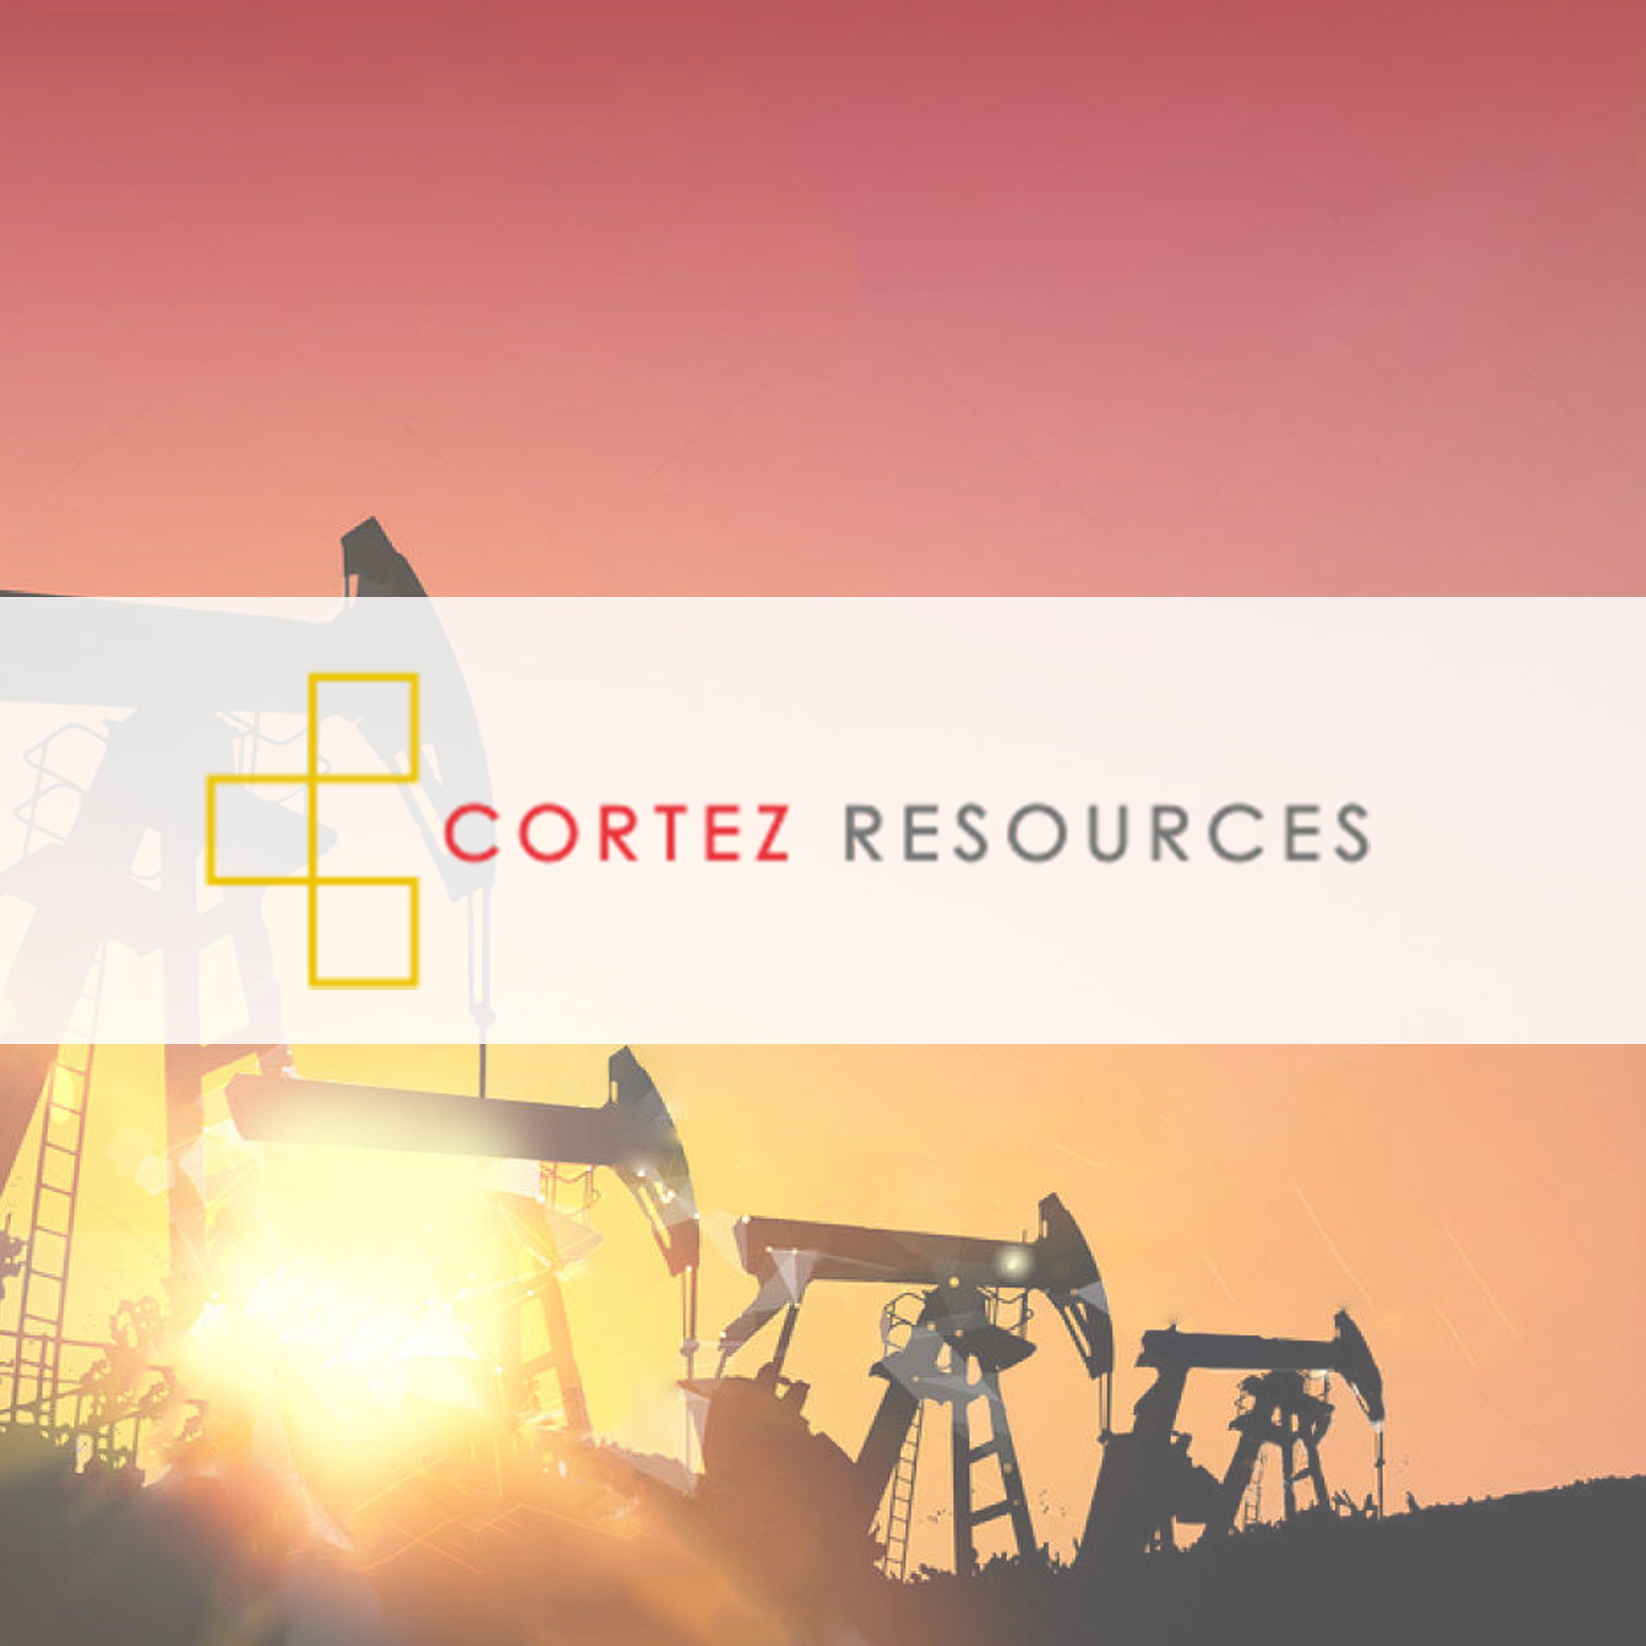
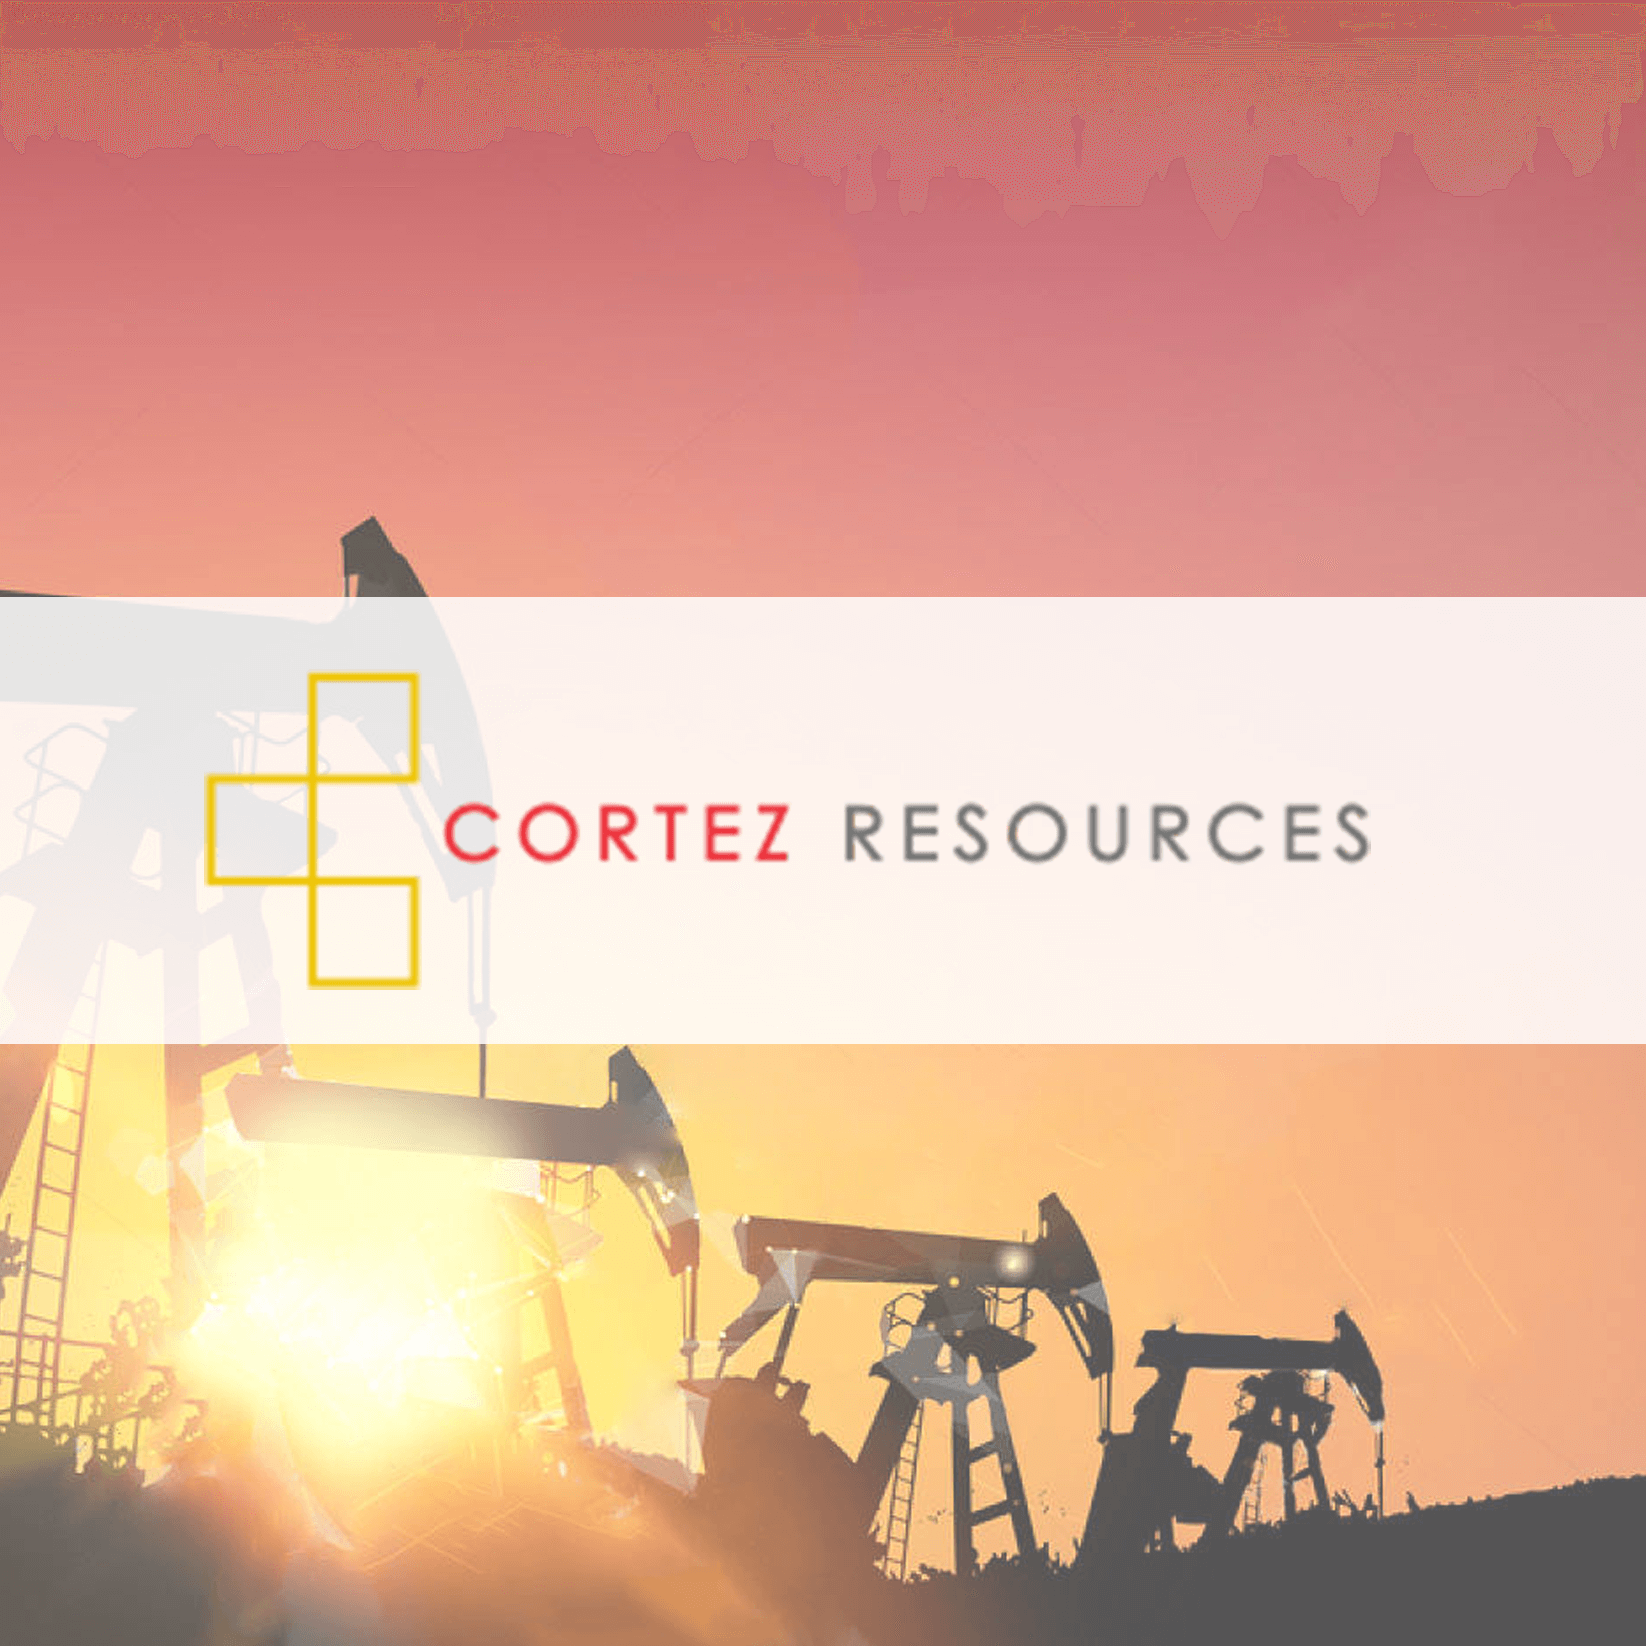
Image Compression

Changed region(s): [[0.0, 0.0, 1.0, 0.1239]]

diff --git a/cortez-resources.html b/cortez-resources.html
@@ -188,19 +188,19 @@
                         <div class="owl-carousel slider-images" style="text-align:center" ;>
 
                             <div class="item">
-                                <img src="assets/images/web/cortez/cortez-1.png" style="width: 70%;" alt="Medieval Times" />
+                                <img src="https://image.ibb.co/nQxEfe/cortez_1.png" style="width: 70%;" alt="Medieval Times" />
                             </div>
 
                             <div class="item">
-                                <img src="assets/images/web/cortez/cortez-2.png" style="width: 70%;" alt="Medieval Times" />
+                                <img src="https://image.ibb.co/b5ABRK/cortez_2.png" style="width: 70%;" alt="Medieval Times" />
                             </div>
 
                             <div class="item">
-                                <img src="assets/images/web/cortez/cortez-3.png" style="width:70%;" alt="Medieval Times" />
+                                <img src="https://image.ibb.co/kFP5mK/cortez_3.png" style="width:70%;" alt="Medieval Times" />
                             </div>
 
                             <div class="item">
-                                <img src="assets/images/web/cortez/cortez-4.png" style="width:70%;" alt="Medieval Times" />
+                                <img src="https://image.ibb.co/dT0d6K/cortez_4.png" style="width:70%;" alt="Medieval Times" />
                             </div>
 
 

diff --git a/index.html b/index.html
@@ -245,7 +245,7 @@
 						<!-- PORTFOLIO ITEM -->
 						<div class="work-item design">
 							<a href="web.html" target="blank">
-								<img src="assets/images/web/cortez/cortezsq.png" alt="">
+								<img src="https://image.ibb.co/nqmX0e/cortezsq.png" alt="">
 								<div class="work-caption font-alt">
 									<h3 class="work-title">Cortez Resources</h3>
 									<div class="work-descr">

diff --git a/web.html b/web.html
@@ -199,7 +199,7 @@
 					<div class="gallery-box">
 						<h5 class="gallery-box-title font-alt">Cortez Resources </h5>
 						<a href="cortez-resources.html">
-							<img src="assets/images/web/cortez/cortezsq.png" alt="Cortez Resources">
+							<img src="https://image.ibb.co/nqmX0e/cortezsq.png" alt="Cortez Resources">
 						</a>
 					</div>
 				</div>
